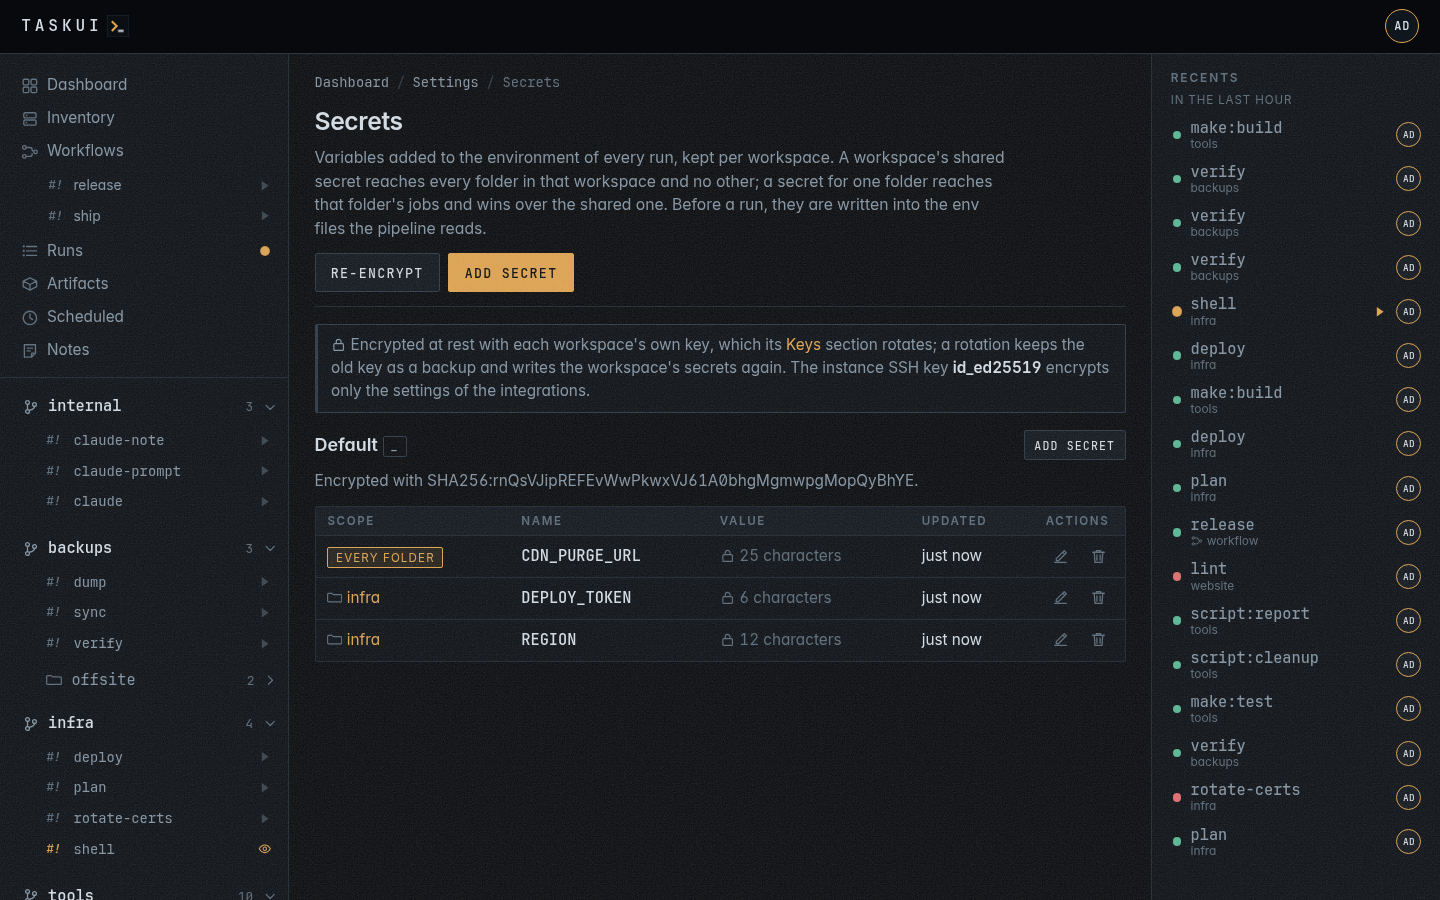
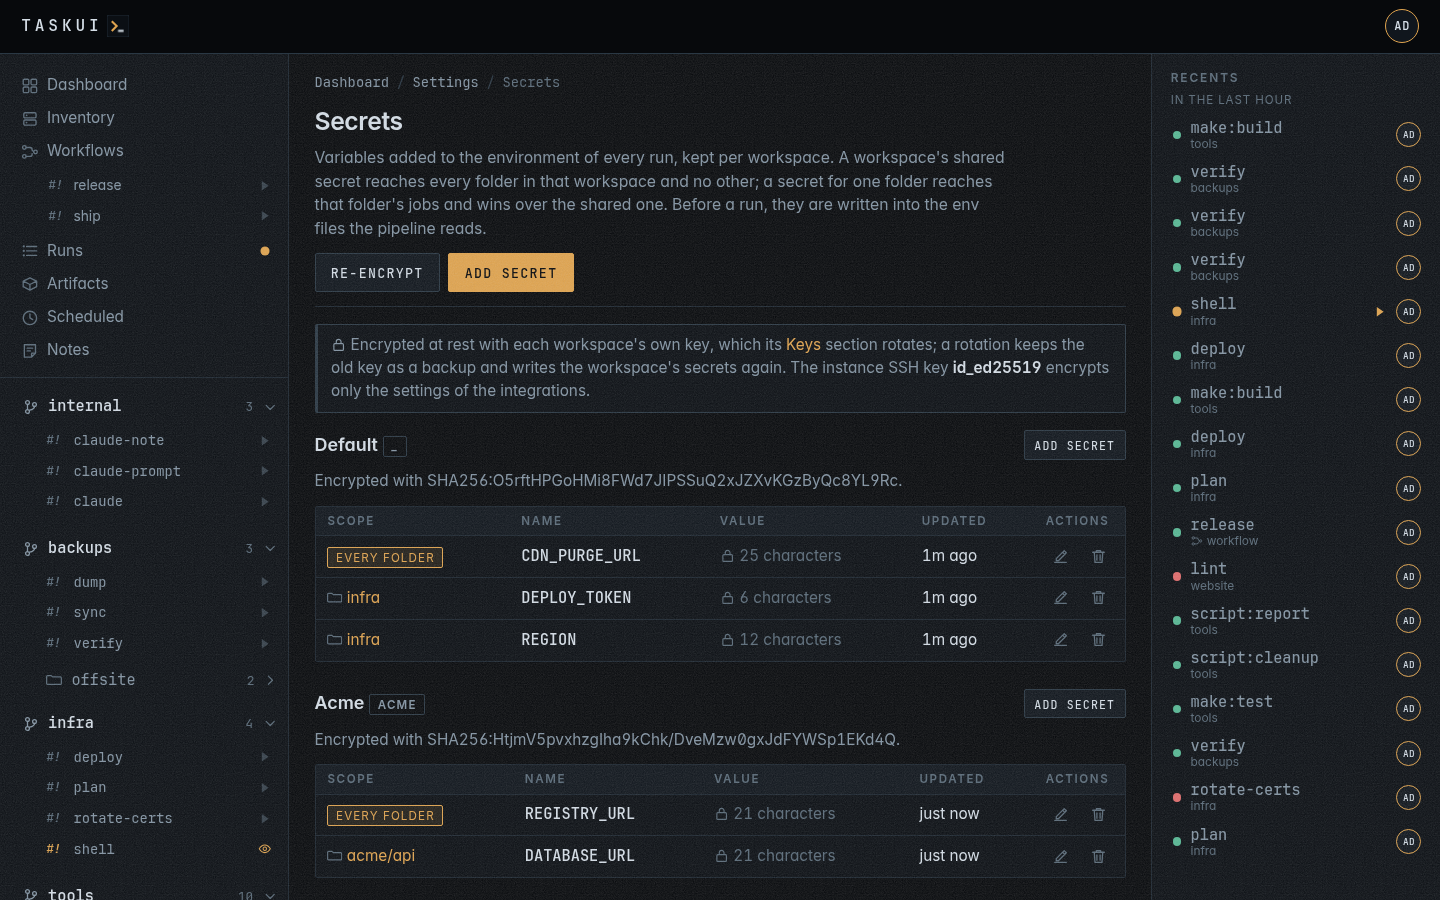
Docs: workspaces, their keys and limits, the Files panel, and shots
The workspaces chapter gains its secrets, the Import on the list, and
what a workspace keeps apart: runs share the server's OS user, so a job
reads every workspace's key files, the database and every checkout.
Settings points the secrets at it and lists Keys, order and Export;
the contents and the README name the chapters and the features.

The demo sets acme up with secrets, two SSH keys and a local .env, and
shoots its configure page, the api project's Files with sealed entries
and an exec file, and a README in the preview window, which #file=
on a folder page opens on load.

diff --git a/frontend/view/assets/task-ui.js b/frontend/view/assets/task-ui.js
@@ -1548,6 +1548,16 @@
       event.preventDefault();
       openCheckout(checkout.getAttribute("href"), checkout.dataset.file);
     });
+
+    // #file=<path> opens a file of the Files panel on load, so a preview
+    // can be shared.
+    var fileHash = /^#file=(.+)$/.exec(location.hash);
+    if (fileHash) {
+      var listed = Array.prototype.find.call(document.querySelectorAll("a[data-file]"), function (a) {
+        return a.dataset.file === decodeURIComponent(fileHash[1]);
+      });
+      if (listed) openCheckout(listed.getAttribute("href"), listed.dataset.file);
+    }
   }
 
   // View on a workflow run opens its pipeline in a window: the run's page,

diff --git a/docs/guide/workspaces.md b/docs/guide/workspaces.md
@@ -57,9 +57,12 @@ the sidebar's order.
   the sidebar and on the page. An added workspace goes last. The default
   workspace lists first and keeps its place.
 - The remove button deletes the checkout, every project inside it and
-  their rows, the env files task-ui keeps for them, and its confirm
-  names those projects first. The default
-  workspace has none: `DELETE /api/workspaces/_` answers `409`.
+  their rows, the env files task-ui keeps for them, the workspace's
+  secrets and its keys, and its confirm names those projects first. The
+  default workspace has none: `DELETE /api/workspaces/_` answers `409`.
+- **Import**, under the list, adds a workspace from a bundle another
+  instance exported (see [Move to another
+  instance](#move-to-another-instance)).
 
 ## Clone a project into one
 
@@ -100,7 +103,7 @@ workspace's name, the count of its projects and a chevron that points
 down while it's open. Under it come the workspace's own jobs, then its
 projects, each with a fold of its own. This browser remembers each fold
 apart, so `malta` and `malta/dockerfiles` open and close on their own.
-Without a workspace, the sidebar lists the projects alone (see
+With no named workspace, the sidebar lists the projects alone (see
 [Projects and jobs](projects.md)).
 
 ## Runs in a workspace
@@ -140,13 +143,14 @@ with their fingerprints, never a private key.
   their runs. A rotation keeps a key's grants, and delete takes the key
   and its grants.
 
+![A workspace's configure page: its keys, and Export](../assets/workspace-edit-dark.png)
+
 A run gets the instance keys its policies name it for (see
-[Settings](settings.md)), then its workspace's SSH keys, and the first
+[Settings](settings.md#ssh-keys)), then its workspace's SSH keys, and the first
 line of its terminal names each: `$ ssh-agent: id_ed25519,
-ws:id_ed25519_deploy`. A project at the root gets the keys of `_`. The
-runs run as the server's OS user, so a job can read every workspace's
-key files on disk: the grants decide what reaches a run's agent, not
-what a job could open.
+ws:id_ed25519_deploy`. A project at the root gets the keys of `_`. The grants
+decide what reaches a run's agent, not what a job can open on disk (see
+[What a workspace keeps apart](#what-a-workspace-keeps-apart)).
 
 ```sh
 curl -s -X POST https://task.example.com/api/workspaces/malta/keys/generate \
@@ -161,6 +165,17 @@ users}` sets the grants, empty for every run, and `DELETE` removes the
 key. `"encrypt": true` on `generate` or `upload` rotates or replaces the
 encryption key; `rekeyed` counts the secrets task-ui wrote again for
 it. The key routes are for admins.
+
+## Secrets
+
+A workspace's secrets reach its runs as variables (see
+[Settings](settings.md#secrets)). Its **shared** secrets, scope
+`workspace:malta`, reach every folder in it; a folder's own, scope
+`malta/deploy`, reach that folder and win over a shared one of the same
+name. The shared secrets of `_` reach the projects at the root and no
+named workspace: a project in `malta` gets `malta`'s shared secrets and
+its own, never `_`'s. The workspace's encryption key encrypts them all,
+and the Secrets page groups them by workspace.
 
 ## Move to another instance
 
@@ -225,6 +240,27 @@ upload limit answers `413`. Both routes are for admins.
 | `manifest.json` | 16 MiB |
 | Each key file | 1 MiB |
 | Entries | 1024 |
+
+## What a workspace keeps apart
+
+A workspace decides what task-ui puts into a run: which secrets go into
+its environment and which SSH keys go into its agent. That is no
+sandbox. Every run runs as the server's OS user, in every workspace, so
+a job can read what that user can:
+
+- every workspace's key files under `TASK_UI_DATA/workspaces/`, the
+  encryption keys among them, and the instance keys;
+- the database, with every workspace's secrets as ciphertext, which the
+  keys beside it open;
+- every checkout under the root, sealed entries such as `.git` and
+  `.env` included: sealing keeps them off the pages and the API, not
+  out of a job's reach.
+
+A job that someone in one workspace can change can read another
+workspace's secrets. Runner rights, and the right to push to a
+workspace's repositories, belong with people you would trust with every
+workspace on the instance; where that does not hold, run one instance
+per trust boundary.
 
 ## A prompt against a workspace
 

diff --git a/docs/README.md b/docs/README.md
@@ -18,9 +18,10 @@ The page has three parts.
   1. the views across all folders: **Dashboard**, **Inventory**,
      **Workflows** (with the workflows listed under it), **Runs**,
      **Artifacts**, **Scheduled** and **Notes**;
-  2. the **projects**, each a folder at the top of the root, with their
-     jobs and the folders inside them, as a tree; a **workspace** folds
-     the projects cloned inside it under its own row.
+  2. the **projects**, each with its jobs and the folders inside it, as
+     a tree: first those at the top of the root, in the default
+     workspace `_`, then each named **workspace**, in its order, with
+     the projects cloned inside it folded under its own row.
 - **Recents**, on a wide screen, a rail on the right: the latest runs and
   workflow runs by anyone. A narrower screen leaves it out; **Runs** lists
   the same runs.
@@ -56,10 +57,10 @@ and red for failed or killed, and pulsing amber while it runs.
 | [Artifacts](guide/artifacts.md)      | Artifacts                              | Files the runs leave behind                                 |
 | [Scheduled](guide/scheduled.md)      | Scheduled                              | Jobs on a cron expression                                   |
 | [Notes](guide/notes.md)              | Notes                                  | Messages, replies, and instructions to the agent            |
-| [Projects and jobs](guide/projects.md) | The tree of projects, folders, jobs  | Folders, the conventions, a job's page, pulls, keys, hours  |
-| [Workspaces](guide/workspaces.md)    | A workspace's row, its projects under it | Shared tooling, cloning into one, its runs, the prompt   |
+| [Projects and jobs](guide/projects.md) | The tree of projects, folders, jobs  | Folders, the conventions, files, a job's page, moving a project, pulls, keys, hours |
+| [Workspaces](guide/workspaces.md)    | A workspace's row, its projects under it | Shared tooling, cloning into one, keys, secrets, export and import, what it keeps apart, the prompt |
 | [Recents](guide/recents.md)          | Recents                                | The latest runs, by anyone                                  |
-| [Settings](guide/settings.md)        | The user menu, Settings                | Projects, workspaces, users, secrets, SSH keys, env files   |
+| [Settings](guide/settings.md)        | The user menu, Settings                | Projects, workspaces, users, secrets, SSH keys, integrations, env files |
 | [MCP](guide/mcp.md)                  |                                        | Tokens, and the tools an agent runs jobs with               |
 | [Screenshots](screenshots.md)        |                                        | Every view, in both themes and on a phone                   |
 

diff --git a/docs/guide/settings.md b/docs/guide/settings.md
@@ -53,10 +53,14 @@ run and when, per job.
 
 Checkouts under the root that hold projects: an organisation's tooling,
 with the projects cloned inside it. **Add workspace** clones one under
-the folder you name, **Configure** changes its title and description,
-and the remove button deletes it with the projects inside it.
-[Workspaces](workspaces.md) covers them, their runs and the prompt
-against a workspace.
+the folder you name, **Move up** and **Move down** order them, and the
+remove button deletes one with the projects inside it. **Configure**
+changes a workspace's title and description, and holds its **Keys**, the
+encryption key of its secrets and the SSH keys of its runs, and
+**Export**, which **Import** on another instance reads.
+[Workspaces](workspaces.md) covers them, their keys and runs, the move
+between instances, what they keep apart, and the prompt against a
+workspace.
 
 ## Users
 
@@ -86,7 +90,7 @@ Variables added to the environment of every run, kept per
 [workspace](workspaces.md). A secret has a scope:
 
 - `workspace:<name>`, a workspace's shared secret, reaches every folder
-  in that workspace and no folder in another one. **Every folder in _**,
+  in that workspace and no folder in another one. "every folder in _",
   `workspace:_`, reaches the projects at the root; a project in a named
   workspace doesn't get it.
 - a folder, `malta/deploy`, reaches that folder's jobs and wins over its
@@ -94,9 +98,14 @@ Variables added to the environment of every run, kept per
 
 A value is never shown again once saved. The page groups the secrets by
 workspace, each with an **Add secret** of its own, and the form's scope
-lists each workspace's shared scope and its folders.
+lists each workspace's shared scope and its folders. In the API, the
+scope `all`, or none, is `workspace:_`.
 
-![Secrets](../assets/secrets-dark.png)
+The scopes keep a workspace's secrets out of the environment of
+another workspace's runs, not out of their reach on disk (see
+[What a workspace keeps apart](workspaces.md#what-a-workspace-keeps-apart)).
+
+![Secrets, grouped by workspace](../assets/secrets-dark.png)
 
 Each workspace's encryption key encrypts its secrets at rest (see
 [Keys](workspaces.md#keys)): the shared ones, and those of every folder

diff --git a/docs/guide/projects.md b/docs/guide/projects.md
@@ -112,7 +112,8 @@ Open a folder from the sidebar:
 - **Files**: what the folder holds, dot entries too, each with its size
   and when it changed, and `..` up a level. A directory opens as a page
   of its own; a file opens in a window, an image shown, markdown
-  rendered, text coloured and cut past 1 MiB, with **Download** beside.
+  rendered, text coloured and cut past 1 MiB, with **Download** beside
+  and in the row.
   A file that runs, executable or with a shebang on its first line,
   carries `#!` and **exec**, and **Run** for those the folder lets run:
   it starts the file as the job `./<path>`, from the folder, and opens
@@ -120,13 +121,22 @@ Open a folder from the sidebar:
 - **Sealed entries**: `.git`, `.env`, `.env.*`, `.htpasswd` and
   `.htaccess` list with a lock and open nothing, nor does a path through
   them, on the page or over the API. Nor does a symlink that leads out
-  of the checkout. Whoever has the server reaches them there.
+  of the checkout. Whoever has the server reaches them there, and so
+  does a job, which runs as the server's user.
 - **Folder**: its path, its sources, who can run it, its hours, the
   files it includes, its schedules. **Show** beside a pipeline file opens
   it, coloured, in a window. A folder in a git checkout also shows the
   checkout's size: its files, and the history in `.git`.
 - **Environment**: the dotenv files the pipeline reads (see
   [Settings](settings.md#env-files)).
+
+![A project's Files: .git and .env sealed, ./serve marked to run](../assets/files-dark.png)
+
+![A file of the checkout in the preview window](../assets/file-dark.png)
+
+A link to the folder's page with `#file=<name>`, such as
+`/f/acme/api#file=README.md`, opens that file of its Files in the window
+on load.
 
 ## A job's page
 

diff --git a/docs/screenshots.md b/docs/screenshots.md
@@ -16,9 +16,10 @@ it with headless chromium; `task docs:shots` regenerates them into
 | ![Artifacts](assets/artifacts-dark.png) | ![Scheduled](assets/schedules-dark.png) |
 | ![Settings](assets/settings-dark.png) | ![Projects](assets/projects-dark.png) |
 | ![Add a project from git](assets/project-new-dark.png) | ![Configure a folder](assets/project-edit-dark.png) |
-| ![Workspaces: checkouts that hold projects](assets/workspaces-dark.png) | ![The sidebar with a workspace open, its projects under it](assets/sidebar-workspace-dark.png) |
-| ![A workspace's page, with the Prompt block](assets/workspace-prompt-dark.png) | |
-| ![Users, from the password file](assets/users-dark.png) | ![Secrets, encrypted with the SSH keys](assets/secrets-dark.png) |
+| ![Workspaces: checkouts that hold projects, and Import](assets/workspaces-dark.png) | ![The sidebar with a workspace open, its projects under it](assets/sidebar-workspace-dark.png) |
+| ![A workspace's page, with the Prompt block](assets/workspace-prompt-dark.png) | ![Configure a workspace: its keys, and Export](assets/workspace-edit-dark.png) |
+| ![A project's Files: .git and .env sealed, a file that runs marked exec](assets/files-dark.png) | ![A file of the checkout in the preview window](assets/file-dark.png) |
+| ![Users, from the password file](assets/users-dark.png) | ![Secrets, grouped by workspace, each on its own key](assets/secrets-dark.png) |
 | ![Add a secret](assets/secret-new-dark.png) | ![An env file](assets/envfile-dark.png) |
 | ![SSH keys](assets/keys-dark.png) | ![Generate a key](assets/keys-generate-dark.png) |
 | ![Upload a key](assets/keys-upload-dark.png) | ![Sign in](assets/login-dark.png) |

diff --git a/README.md b/README.md
@@ -8,13 +8,20 @@ Makefile targets, package.json and composer.json scripts, and a
 terminal that anyone allowed can attach to, from any window, for as long
 as it runs.
 
+Projects live in workspaces: a checkout of shared tooling with the
+projects cloned inside it, its own secrets and SSH keys, and an export
+that moves it, keys and all, to another instance. A project's Files
+panel browses its checkout like a file manager: a file opens in a
+preview window, and a file that runs gets a Run button.
+
 ![The dashboard: every terminal in progress, as it looks right now](https://raw.githubusercontent.com/titpetric/task-ui/main/docs/assets/task-ui.png)
 
 The [usage guide](docs/README.md) shows how to use it, a chapter per
-section of the sidebar: the [dashboard](docs/guide/dashboard.md),
-[workflows](docs/guide/workflows.md), [runs](docs/guide/runs.md),
-[artifacts](docs/guide/artifacts.md), [schedules](docs/guide/scheduled.md),
-the [projects and their jobs](docs/guide/projects.md), the
+section of the sidebar: the [dashboard](docs/guide/dashboard.md), the
+[inventory](docs/guide/inventory.md), [workflows](docs/guide/workflows.md),
+[runs](docs/guide/runs.md), [artifacts](docs/guide/artifacts.md),
+[schedules](docs/guide/scheduled.md), [notes](docs/guide/notes.md), the
+[projects and their jobs](docs/guide/projects.md), the
 [workspaces](docs/guide/workspaces.md) that hold projects, the
 [recents](docs/guide/recents.md), the [settings](docs/guide/settings.md),
 and [MCP](docs/guide/mcp.md), for an agent that runs jobs. This README

diff --git a/docs/running.md b/docs/running.md
@@ -41,7 +41,7 @@ The environment sets the whole configuration:
 | `TASK_UI_HTPASSWD`    | `.htpasswd`          | The password file, looked up in the root                          |
 | `TASK_UI_ADMINS`      |                      | Users with the admin role, comma separated                        |
 | `TASK_UI_VIEWERS`     |                      | Users with the viewer role, comma separated; the rest are runners |
-| `TASK_UI_DATA`        | `data`               | Database, recordings and artifacts                                |
+| `TASK_UI_DATA`        | `data`               | Database, recordings, artifacts and workspace keys                |
 | `TASK_UI_DB`          | `<data>/task-ui.db`  | Database file (sqlite)                                            |
 | `TASK_UI_SSH_DIR`     | `$HOME/.ssh`         | Folder the SSH key settings manage                                |
 | `TASK_UI_SESSION_TTL` | `12h`                | How long a sign in lasts                                          |

diff --git a/testdata/demo/acme/api/README.md b/testdata/demo/acme/api/README.md
@@ -1,6 +1,7 @@
 # API
 
 The public HTTP API of Acme. `atkins test` runs its tests, `bin/migrate`
-brings a database up to the latest schema.
+brings a database up to the latest schema, and `./serve` serves it on
+port 8080.
 
 ![The schema](docs/schema.svg)
